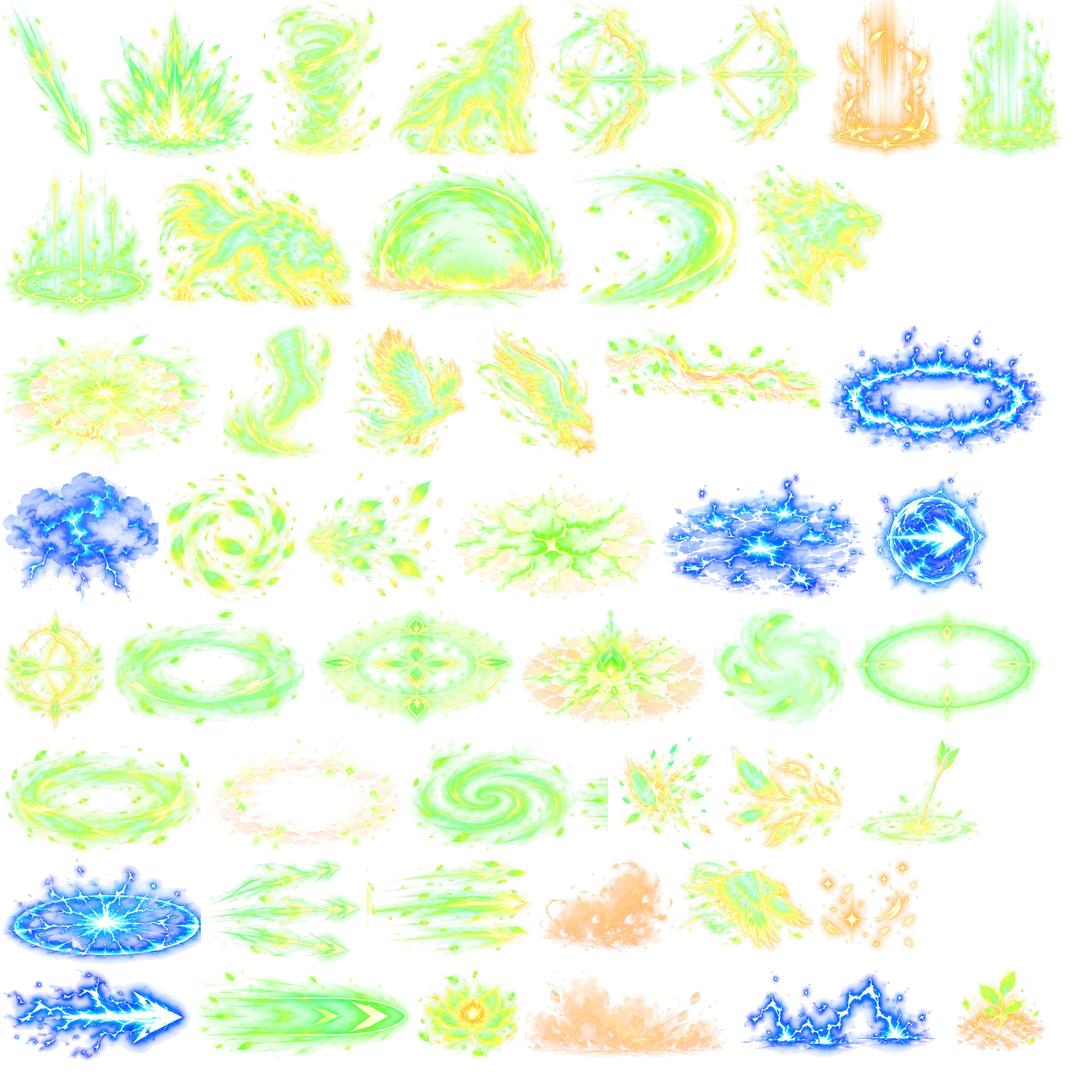
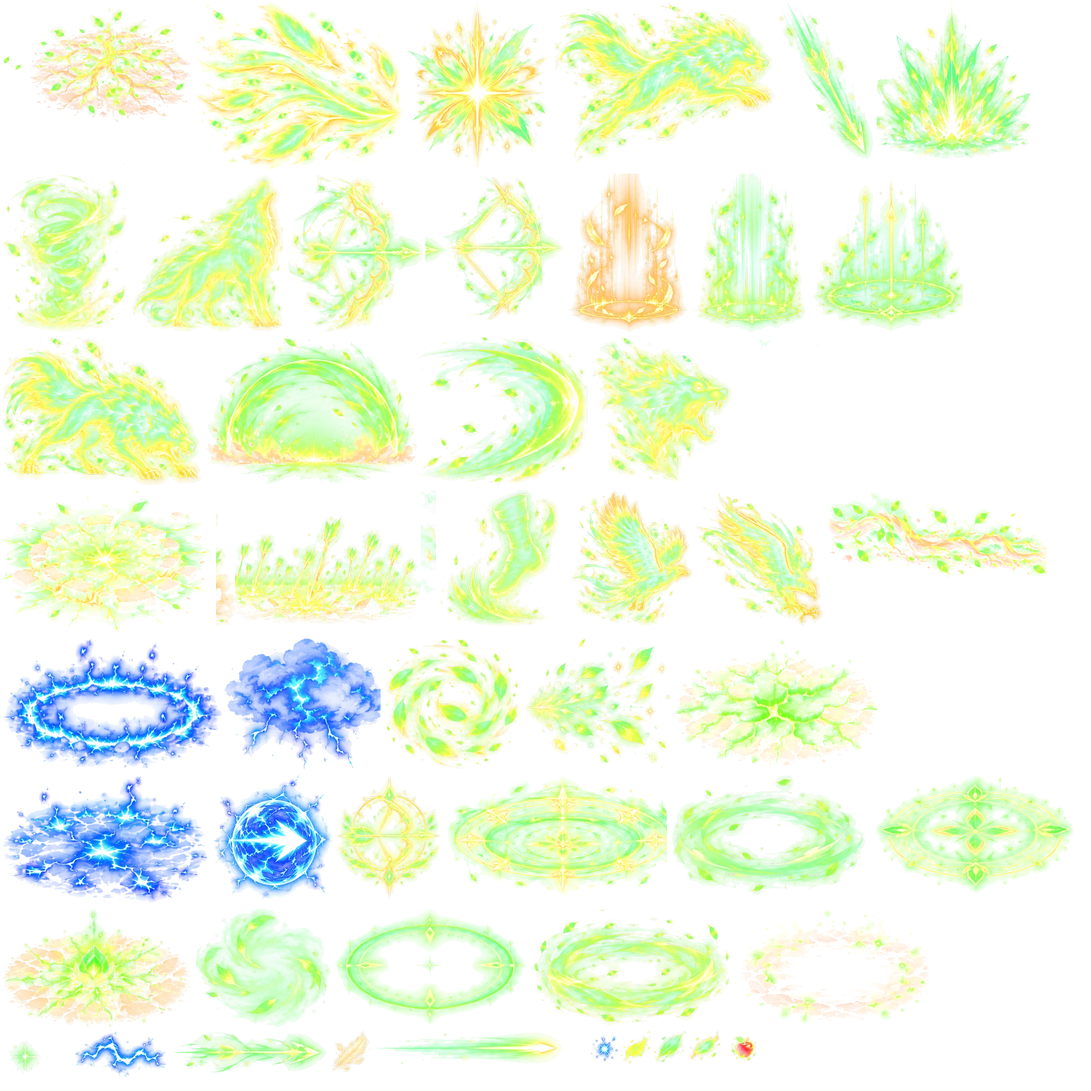
Archer: fourth painted sheet — Sky Rain opens the sky (rune of arrows, storm light), volleys pour down and stand in the ground, golden arrows blow the floor up, and a giant golden arrow falls through a pillar of light for the last wave
Claude-Session: https://claude.ai/code/session_01VyjNmvWjWSa1nwJcopXfn1

diff --git a/src/skills/ArcherFx.ts b/src/skills/ArcherFx.ts
@@ -477,15 +477,51 @@ export class ArcherFx {
   private skyRain(r: CastRun): void {
     const T = r.timings;
     this.ctx.ultimateStage(r);
-    this.later(T.startup, () => {
+    const life = T.startup * 0.7 + T.active + 500;
+    // the sky opens: storm light breaks through the clouds and a great rune of arrows turns high above
+    this.later(T.startup * 0.3, () => {
+      const v = this.ctx.cam().worldView, cx = v.centerX, cy = v.y + v.height * 0.14;
+      for (const dx of [-0.27, 0.27]) this.spr({ name: 'sky_clouds', x: cx + dx * v.width, y: cy, depth: TOP + 1, w: v.width * 0.6, add: true, life, sy: () => 0.6, a: kf([0, 0], [0.12, 0.75], [0.85, 0.75], [1, 0]) });
+      this.spr({ name: 'sky_rune', x: cx, y: cy + 30, depth: TOP + 2, w: v.width * 0.62, add: true, glow: 0.35, life,
+        sx: (u) => kf([0, 0.2], [0.1, 1, out3])(u) * (1 + 0.03 * Math.sin(u * 30)), sy: kf([0, 0.2], [0.1, 1, out3]), a: kf([0, 0], [0.08, 0.85], [0.88, 0.8], [1, 0]) });
+    }, r);
+    // six waves of volleys pour down over the whole screen; the arrows stand in the ground where they land
+    for (let w = 0; w < 6; w++) this.later(T.startup + w * 200 - 180, () => {
       const v = this.ctx.cam().worldView;
-      for (let w = 0; w < 7; w++) for (let k = 0; k < 16; k++) {
-        const fx = v.x + rnd(0.04, 0.96) * v.width, fy = v.y + rnd(0.5, 0.95) * v.height, d = w * 200 + rnd(0, 180), big = Math.random() < 0.15;
-        this.spr({ name: 'arrow_fall', x: fx - 70, y: fy - 380, depth: fy + 2, w: big ? 80 : 50, angle: -12, add: true, glow: 0.35, life: 220, delay: d, mx: (u) => 70 * u, my: (u) => 380 * inQ(u) });
-        this.later(d + 220, () => { this.pop(big ? 'burst_heavy' : 'spark_s', fx, fy - 10, big ? 110 : 56, { life: 240 }); if (big) this.floor('shock_ring', fx, fy, 140, 360, { add: true, s: kf([0, 0.4], [1, 1.2, out3]), a: kf([0, 1], [1, 0]) }); });
+      for (let k = 0; k < 5; k++) {
+        const fx = v.x + (k + rnd(0.15, 0.85)) / 5 * v.width, fy = v.y + rnd(0.55, 0.93) * v.height, dl = rnd(0, 60);
+        this.spr({ name: 'volley', x: fx - 300, y: fy - 420, ox: 0.9, oy: 0.95, depth: fy + 2, w: 230, glow: 0.3, life: 180, delay: dl, mx: (u) => 300 * u, my: (u) => 420 * inQ(u), a: kf([0, 0.6], [0.2, 1], [1, 1]) });
+        this.later(dl + 180, () => {
+          this.spr({ name: 'arrow_field', x: fx, y: fy + 6, oy: 0.95, depth: fy + 1, w: 210, glow: 0.2, life: 1500 - w * 150, a: kf([0, 1], [0.75, 0.9], [1, 0]) });
+          this.pop('spark_s', fx, fy - 10, 90, { life: 220 });
+          this.spr({ name: 'dust_roll', x: fx, y: fy + 10, oy: 0.9, depth: fy, w: 200, life: 500, sx: kf([0, 0.5], [1, 1.3, out3]), a: kf([0, 0.7], [1, 0, inQ]) });
+        });
       }
-      for (let w = 0; w < 7; w++) this.later(w * 200 + 200, () => this.shake(r, 160, 0.004));
-      this.later(1500, () => { this.shake(r, 420, 0.012); if (r.own) this.ctx.punch(0.06, 360); });
+      if (w >= 2) { // a radiant golden arrow drops straight down among them and blows the ground up
+        const gx = v.x + rnd(0.2, 0.8) * v.width, gy = v.y + rnd(0.6, 0.9) * v.height;
+        this.spr({ name: 'gold_arrow', x: gx, y: gy - 700, oy: 0.98, depth: gy + 2, w: 110, glow: 0.4, life: 180, my: (u) => 700 * inQ(u) });
+        this.later(180, () => {
+          this.spr({ name: 'gold_blast', x: gx, y: gy + 8, oy: 0.95, depth: gy + 3, w: 280, glow: 0.3, life: 460, sy: kf([0, 0.3], [0.25, 1.05, out3]), a: kf([0, 1], [0.55, 1], [1, 0, inQ]) });
+          this.floor('gold_ring', gx, gy, 300, 460, { add: true, s: kf([0, 0.3], [1, 1.3, out3]), a: kf([0, 1], [1, 0, inQ]) });
+          this.floor('crater', gx, gy, 220, 1300, { a: kf([0, 0], [0.04, 1], [0.6, 0.8], [1, 0]) });
+          this.shake(r, 140, 0.005);
+        });
+      }
+      this.shake(r, 120, 0.003);
+    }, r);
+    // the last wave: one giant golden arrow falls through a pillar of light onto the middle of the screen
+    this.later(T.startup + 1420 - 260, () => {
+      const v = this.ctx.cam().worldView, gx = v.centerX, gy = v.y + v.height * 0.78;
+      this.spr({ name: 'sky_pillar', x: gx, y: gy + 10, oy: 0.97, depth: gy + 1, w: 260, h: v.height * 1.1, add: true, glow: 0.3, life: 900, sx: kf([0, 0.3], [0.2, 1, out3], [1, 1.3]), a: kf([0, 0], [0.15, 1], [0.6, 0.9], [1, 0, inQ]) });
+      this.spr({ name: 'gold_arrow', x: gx, y: gy - 900, oy: 0.98, depth: gy + 4, w: 200, glow: 0.5, life: 260, my: (u) => 900 * inQ(u) });
+      this.later(260, () => {
+        this.spr({ name: 'gold_blast', x: gx, y: gy + 10, oy: 0.95, depth: gy + 5, w: 560, glow: 0.35, life: 700, sy: kf([0, 0.3], [0.2, 1.05, out3], [1, 1.1]), a: kf([0, 1], [0.55, 1], [1, 0, inQ]) });
+        this.floor('gold_ring', gx, gy, 520, 700, { add: true, s: kf([0, 0.3], [1, 1.6, out3]), a: kf([0, 1], [1, 0, inQ]) });
+        this.floor('crater', gx, gy, 420, 2200, { a: kf([0, 0], [0.03, 1], [0.7, 0.85], [1, 0]) });
+        this.spr({ name: 'debris', x: gx, y: gy + 6, oy: 0.95, depth: gy + 6, w: 420, life: 800, my: (u) => -50 * out(u), a: kf([0, 1], [0.6, 1], [1, 0, inQ]) });
+        this.spr({ name: 'dust_roll', x: gx, y: gy + 12, oy: 0.9, depth: gy + 2, w: 700, life: 900, sx: kf([0, 0.5], [1, 1.5, out3]), a: kf([0, 0.9], [1, 0, inQ]) });
+        this.shake(r, 460, 0.014); if (r.own) this.ctx.punch(0.07, 380);
+      });
     }, r);
   }
 

diff --git a/tools/skills/kit.py b/tools/skills/kit.py
@@ -91,6 +91,7 @@ ARCHER_SHEETS = {
     'a11.png': grid(4, 2, ['elec_rise_arrow', 'strike', 'elec_burst', 'elec_arrow', 'elec_ground', 'ground_arcs', 'elec_sparks', 'elec_ring'], [420, 460, 380, 360, 420, 380, 380, 420]),
     'a12.png': [('eagle_up', (0, 0, 380, 512), 440), ('eagle_glide', (380, 0, 830, 512), 460), ('eagle_down', (830, 0, 1150, 512), 420), ('feather_trail', (1150, 0, 1536, 512), 440),
                 ('wolf_crouch', (0, 512, 390, 1024), 380), ('wolf_leap', (390, 512, 805, 1024), 420), ('wolf_howl', (805, 512, 1150, 1024), 400), ('roar_wave', (1150, 512, 1536, 1024), 420)],
+    'a13.png': grid(4, 2, ['sky_rune', 'volley', 'gold_arrow', 'sky_pillar', 'gold_blast', 'arrow_field', 'sky_clouds', 'gold_ring'], [440, 400, 440, 460, 400, 420, 420, 440]),
     'a9.png': [('bow', (0, 40, 390, 480), 300, 'box')] + grid(4, 2, [None, 'bow_drawn', 'aura_gold', 'aura_green', 'emblem', 'pillar', 'sparkles', 'rain_ring'], [300, 300, 300, 300, 240, 380, 200, 300]),
 }
 PROFILES = {'samurai': (G + 'tools/skills/gpt/kit/', G + 'public/assets/final/skills/samurai/kit/', None),
